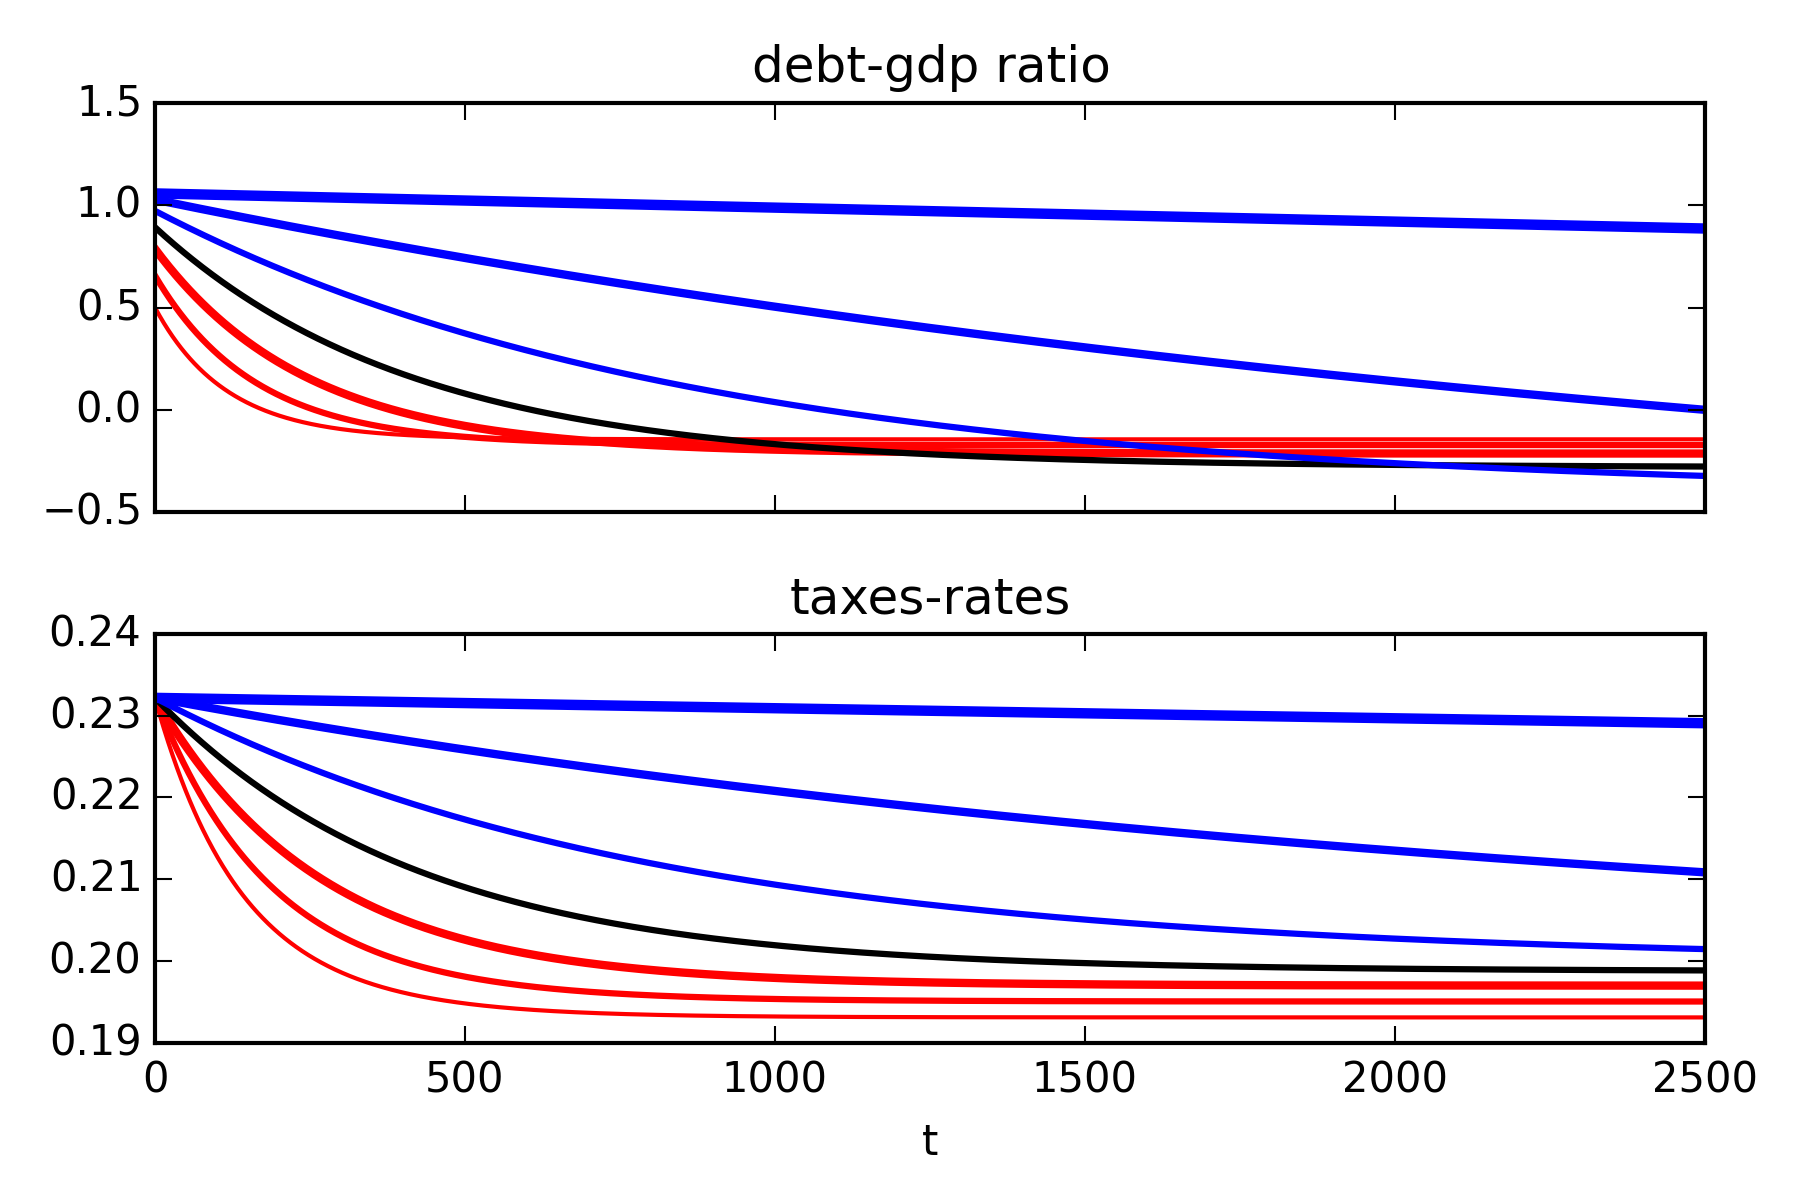
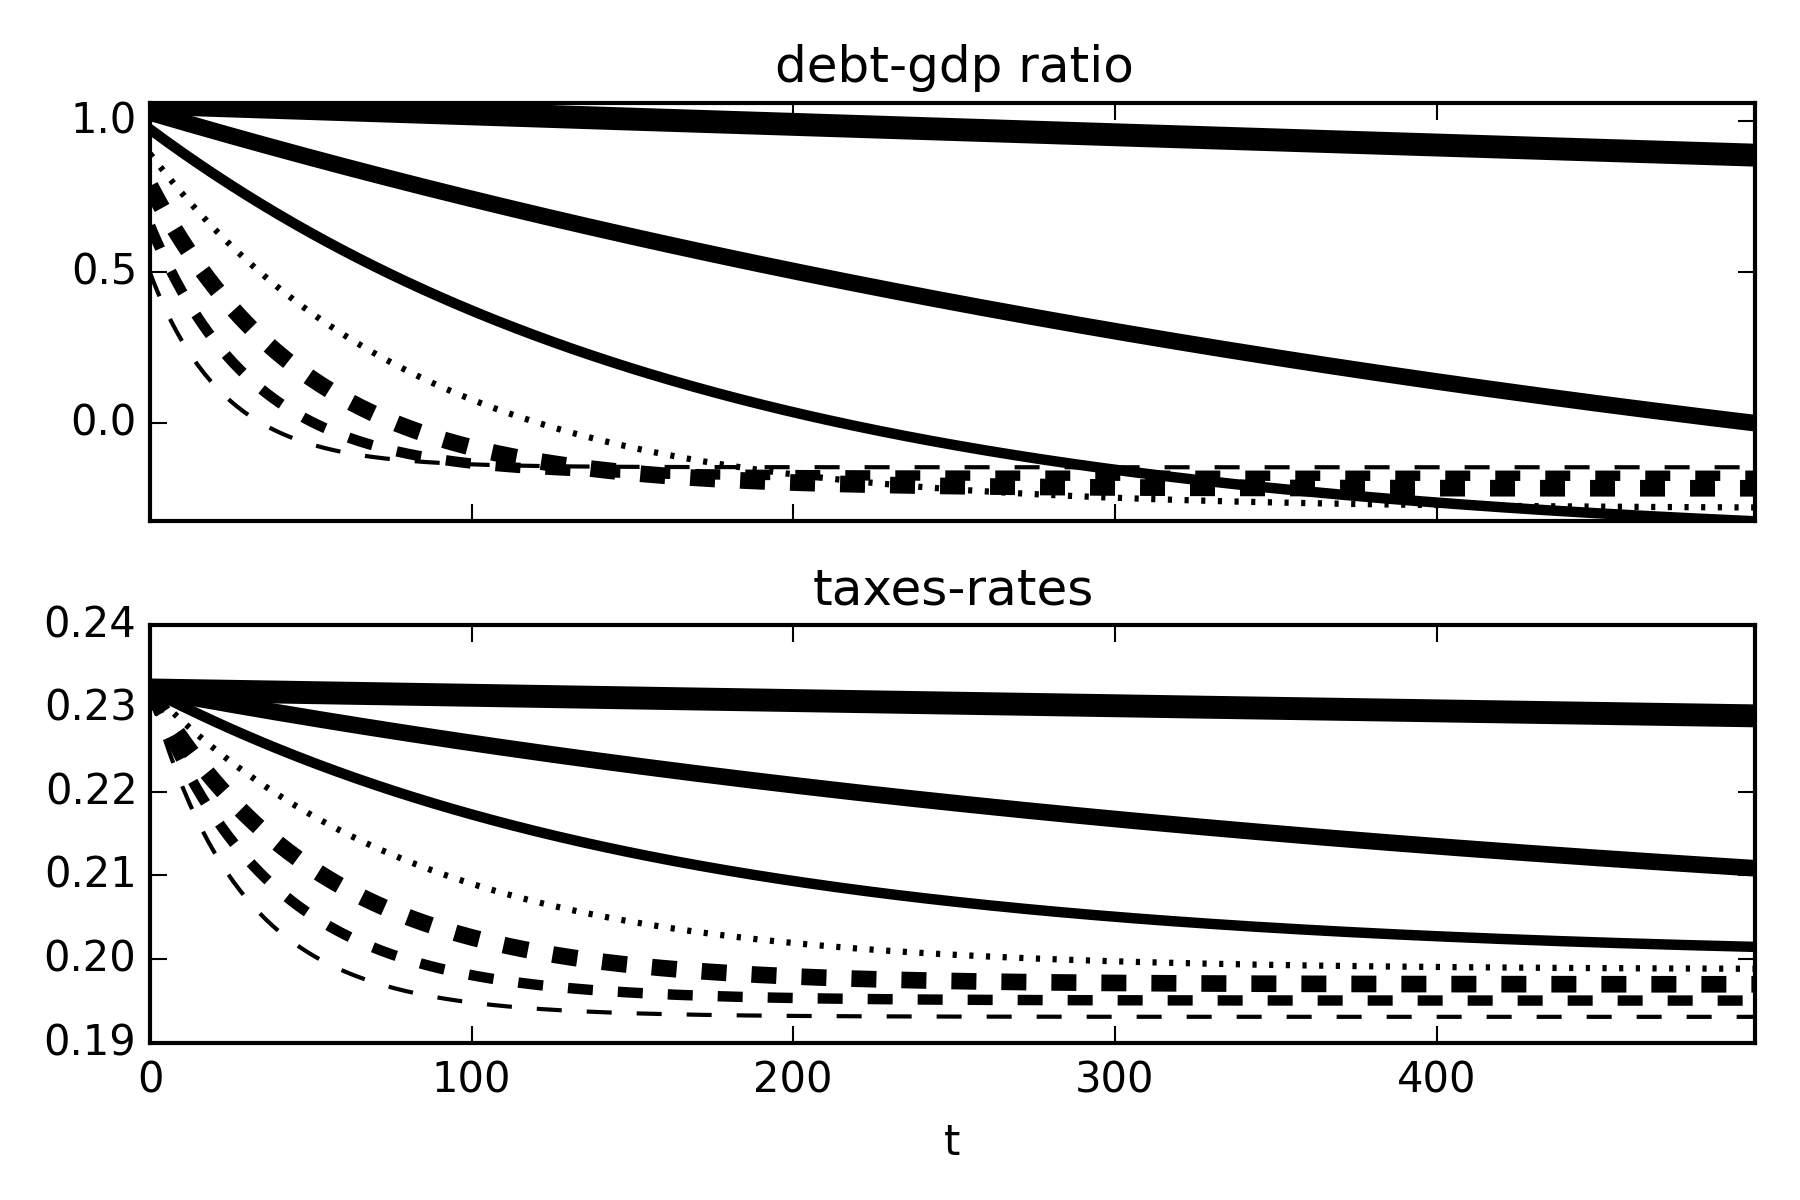
reviewed and answered Tom's question, changed graphs+lit review

Changed region(s): [[0.0311, 0.0308, 0.9956, 0.925], [0.4978, 0.925, 0.5289, 0.9558]]

diff --git a/manuscript/BEGS-revision/begs_revision.tex b/manuscript/BEGS-revision/begs_revision.tex
@@ -424,10 +424,6 @@ Section \ref{sec:concluding} offers concluding remarks.
 \textbf{Anmol and Mike: this subsection has just been cut and pasted from a long ago version. I don't like literature review sections, but
 I think we need one for strategic reasons if only to help an editor get us fair referees.}
 
-Our paper extends both \citet{Barro1974}, which showed Ricardian equivalence in a representative agent economy with lump sum taxes,
-and \citet{Barro1979}, which studied  optimal taxation  when lump sum taxes are ruled out. In our environment with incomplete markets and heterogeneous workers,
-both forces discovered by Barro play large roles.  But the distributive motives that we include alter optimal policies.
-
  A large  literature on Ramsey problems  exogenously restricts transfers in the context of representative agent, general equilibrium models.
   \citet{LucasJr.1983}, \citet{Chari1994},  and \citet{Aiyagari2002} (henceforth called  AMSS)
  %\textbf{Anmol XXXXX: let's decide on whether or not
@@ -456,6 +452,15 @@ is that when  agent's asset holdings are perfectly observable, the distribution 
 agents is irrelevant and an optimal allocation can be achieved purely through
 taxation (see, e.g. \citet{Bassetto2004}).  In the previous version of the paper we showed that a mechanism design version of the model with unobservable assets generates some of the similar predictions to the model with affine taxes that we study, in particular, the relevance of net assets and history dependence of taxes. We leave further analysis along this
 direction to the  future.}
+
+Some of our results in section \ref{Sec: quasilinear}  are related to \citet{Angeletos}, \citet{Buera_Nicolini}, and \citet{Shin2007}. These papers show that a Ramsey allocation with complete markets (for some initial debt level) as in \citet{LucasJr.1983}, can be supported in a setting with non-contingent debts of rich enough maturities. In contrast, we characterize properties of payoffs that cause the optimal plan with incomplete markets to  eventually converge to a  complete markets allocation. For us the limiting allocation depends on  primitive parameters and not the initial debt level. We use this result to build tools that allow us to say more about the ergodic distribution of debt and taxes in economies where perfect spanning is infeasible even in the limit.
+
+In a setting with self-interested politicians who issue debt and tax capital in absence of commitment, \citet{AA2011} find conditions under which optimal allocations feature no tax distortions in the limit. Our eventual spanning results have a similar flavor where we show cases where fluctuations in taxes rates are absent in the limit although the level may not be zero. Also for (a deterministic) setting with linear utility, their paper characterizes speeds of convergence of debt and tax rates in the neighbourhood of steady states and how like political economy frictions can slow down convergence. In section \ref{Sec: quasilinear} with utility linear in consumption, we too characterize the speed of convergence in terms of the covariance structure of the payoffs and aggregate shocks.  
+
+
+Our paper extends both \citet{Barro1974}, which showed Ricardian equivalence in a representative agent economy with lump sum taxes,
+and \citet{Barro1979}, which studied  optimal taxation  when lump sum taxes are ruled out. In our environment with incomplete markets and heterogeneous workers,
+both forces discovered by Barro play large roles.  But the distributive motives that we include alter optimal policies.
 
 Several other papers impute distributive concerns to a Ramsey planner.
 Three papers  most closely related to ours are \citet{Bassetto1999}, \citet{shin2006ramsey}, and \citet{Wer07a}. Like us, those authors allow heterogeneity and study
@@ -957,11 +962,11 @@ Assume that $n<\frac{\gamma}{1+\gamma}$, if $\omega\geq n \left(\frac{1+\gamma}{
 
 For a Pareto weight on the productive agent above  $\bar{\omega}=n\left(\frac{1+\gamma}{\gamma}\right)$,
 using transfers is just too costly for the planner because positive  transfers   subsidize the unproductive type 2 agent
-whose  welfare the planner  values too little. Besides making the Ramsey plan in the
+whose  welfare the planner  values too little. By making the Ramsey plan in the
 two-type of agents economy identical to that for  representative agent economy with no lump sum transfers, 
 Lemma \ref{lemma threshold} also justifies our normalization where we interpret $-B_t$ as public debt.  
-\textbf{Anmol XXXXX:
-I don't understand the part about ``also justifies'' -- didn't we impose everything we need to get this with our without the lemma?}
+%\textbf{Anmol XXXXX:
+%I don't understand the part about ``also justifies'' -- didn't we impose everything we need to get this with our without the lemma?}
 We shall now characterize the dynamics of debt and taxes for such a $T_t \equiv 0$ representative agent economy
 before turning to the case in which a lower Pareto weight attached to productive gent induces the Ramsey planner to use positive transfers.
  
@@ -1761,7 +1766,7 @@ $g$ & .13 \%&Average pre-transfer expenditure- output ratio of 12 \% \\\hline
 
 \subsection{Long run outcomes}\label{sec:longrunsimul}
 Figure \ref{fig:long_simulation} simulations of  2000 periods for the government debt to output ratio, the labor tax rate,  and the transfers to output ratio
-for three values of $\chi \in \{-1.0,-0.06,1.0\}$ in red, black, and blue, respectively. The three simulations start from the  same initial conditions and
+for three values of $\chi \in \{-1.0,-0.06,1.0\}$ in dashed , bold, and dotted, respectively. The three simulations start from the  same initial conditions and
 all share the same sequence of underlying shocks.
 
  {
@@ -1769,16 +1774,16 @@ all share the same sequence of underlying shocks.
   \label{fig:long_simulation}
     \centering
     \includegraphics[width = 0.9\textwidth]{cesplots/long_simulation_debt.png}
-    \caption{The red, black and blue lines plot simulations for a common sequence of shocks for values of $\chi=-1.0,-0.06,1.0$ respectively}
+    \caption{The dashed, bold and dotted lines plot simulations for a common sequence of shocks for values of $\chi=-1.0,-0.06,1.0$ respectively}
   \end{figure}
 
 }
 
-Two features emerge.   Different values $\chi$ give rise to different locations of the long-run marginal distribution of government assets and also to different  rates  of convergence
+Two features emerge. Different values $\chi$ give rise to different locations of the long-run marginal distribution of government assets and also to different  rates  of convergence
 to that long-run distribution.
 A sufficiently positive $\chi$ generates lower payoffs in recessions relative to booms. In line with assertions of  theorems \ref{thm: rep agent general theorem} and  \ref{thm long run forces},
-we see from the blue line  that  the government does not repay its initial debt during these 2000 periods. On the other
-hand, under the benchmark $\chi$  (black line) or  when $\chi$ is negative (red line), the government accumulates assets.
+we see from the dotted line  that  the government does not repay its initial debt during these 2000 periods. On the other
+hand, under the benchmark $\chi$  (bold line) or  when $\chi$ is negative (dashed line), the government accumulates assets.
 
 In order to get a clearer picture of the speed of convergence, we plot  paths of the conditional means for debt and the  tax rate in figure \ref{fig:speed_of_convergence}.
 To explain how we generated these plots, let $B(s_{t+1},\bm x_t, \bm \rho_t)$ be the Ramsey decision rules
@@ -1793,7 +1798,7 @@ B^{cm}_{t+1}=\mathbb{E}B(s_{t+1},\bm x^{cm}_t,\bm \rho^{cm}_{t})
  \end{equation}
 \end{subequations}
 Note how these conditional mean  paths smooth the high frequency movements in the dynamics of the state variables but retain the low frequency drifts.
- As before,  different lines correspond to  different values of $\chi$ between $-1.0$ and $1.0$ with the blue (red) lines representing positive (negative) values of $\chi$.
+ As before,  different lines correspond to  different values of $\chi$ between $-1.0$ and $1.0$ with the bold (dashed) lines representing positive (negative) values of $\chi$.
  Thicker  lines depict outcomes associated with larger values of $\chi$. The figure  shows that the speed of convergence is increasing and the magnitude of the limiting assets in decreasing
  in the strength of correlation between productivities and payoffs. This pattern  confirms the approximation results characterized in Theorem \ref{thm: rep agent linear policies}.
 
@@ -1802,7 +1807,7 @@ Note how these conditional mean  paths smooth the high frequency movements in th
   \label{fig:speed_of_convergence}
     \centering
     \includegraphics[width = .9\textwidth]{cesplots/speed_of_convergence.png}
-    \caption{The plot shows conditional mean paths for different values of $\chi$. The red (blue) lines have $\chi<0$ ($\chi>0$). The thicker lines represent larger values.}
+    \caption{The plot shows conditional mean paths for different values of $\chi$. The dashed (blue) lines have $\chi<0$ ($\chi>0$). The thicker lines represent larger values. The dotted line have $\chi=-0.06$}
   \end{figure}
 
 }
@@ -1938,11 +1943,9 @@ c_{i,t},l_{i,t},b_{i,t}\right \} _{i},B_{t},R_{t}\}_{t} $ such that $%
 \{ c_{i,t},l_{i,t},b_{i,t}\right \} _{i,t}$ maximizes (\ref{utility
 lifetime})\ subject to (\ref{agent bc affine}) and (\ref{borrowing
 constraint}), $\{ b_{i,t} \}_{i,t}$ are bounded,
-and constraints (\ref{feasibility goods}), (\ref{govmt bc affine})\ and (\ref%
+and constraints (\ref{eqn:feasiblity}), (\ref{govmt bc affine})\ and (\ref%
 {feasibility bonds})\ are satisfied.
 \end{definition}
-
-\textbf{Anmol XXXXX: a missing reference number -- see the ???? in the pdf version here.}
 
 We can define an \emph{optimal} competitive equilibrium with exogenous borrowing
 constraints by extending Definition \ref{Def: optimal CE affine}.
